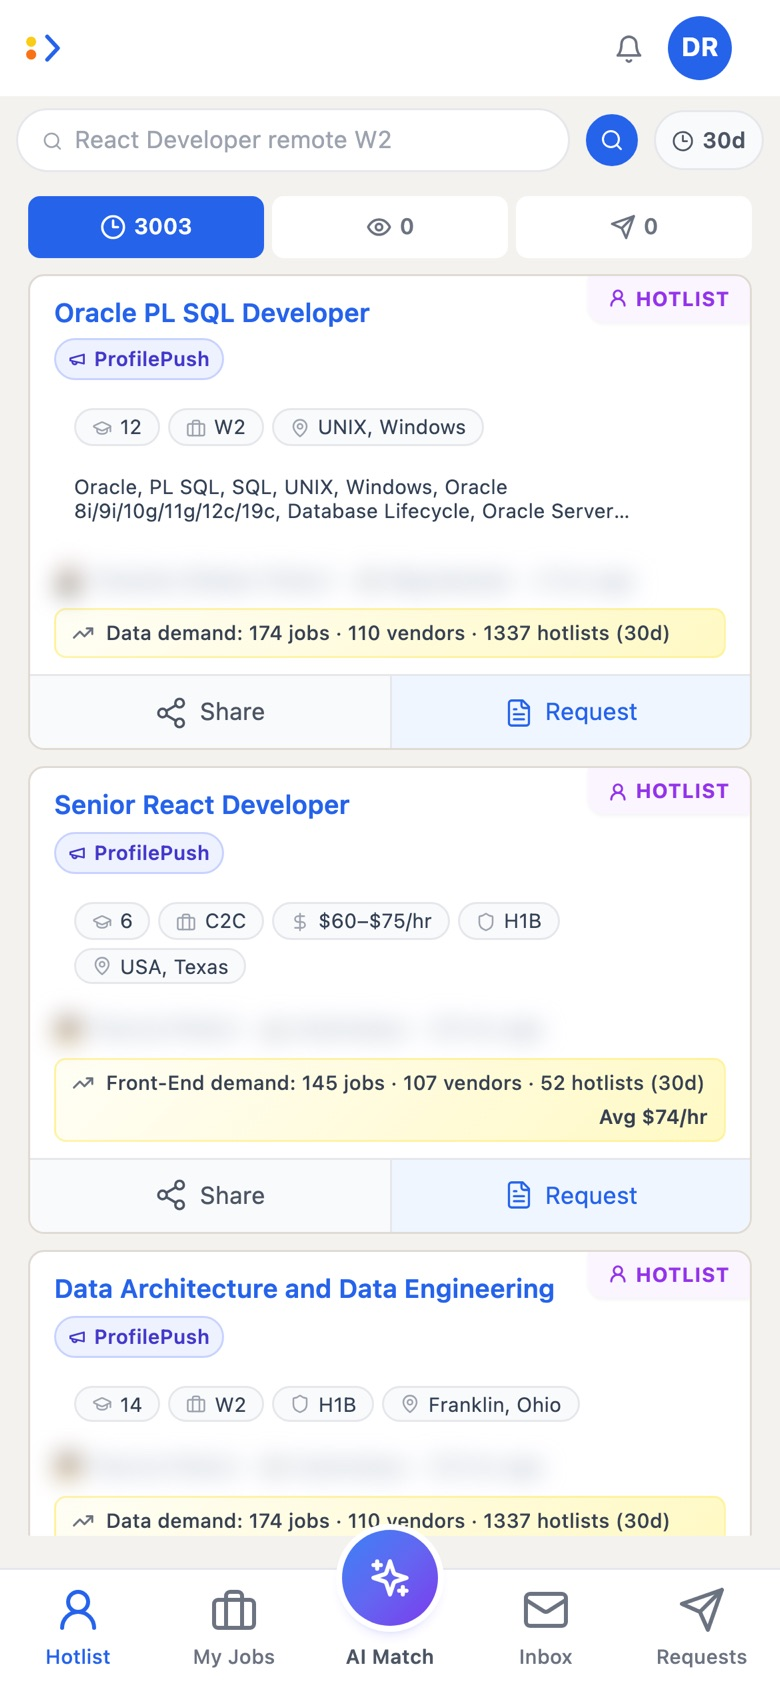
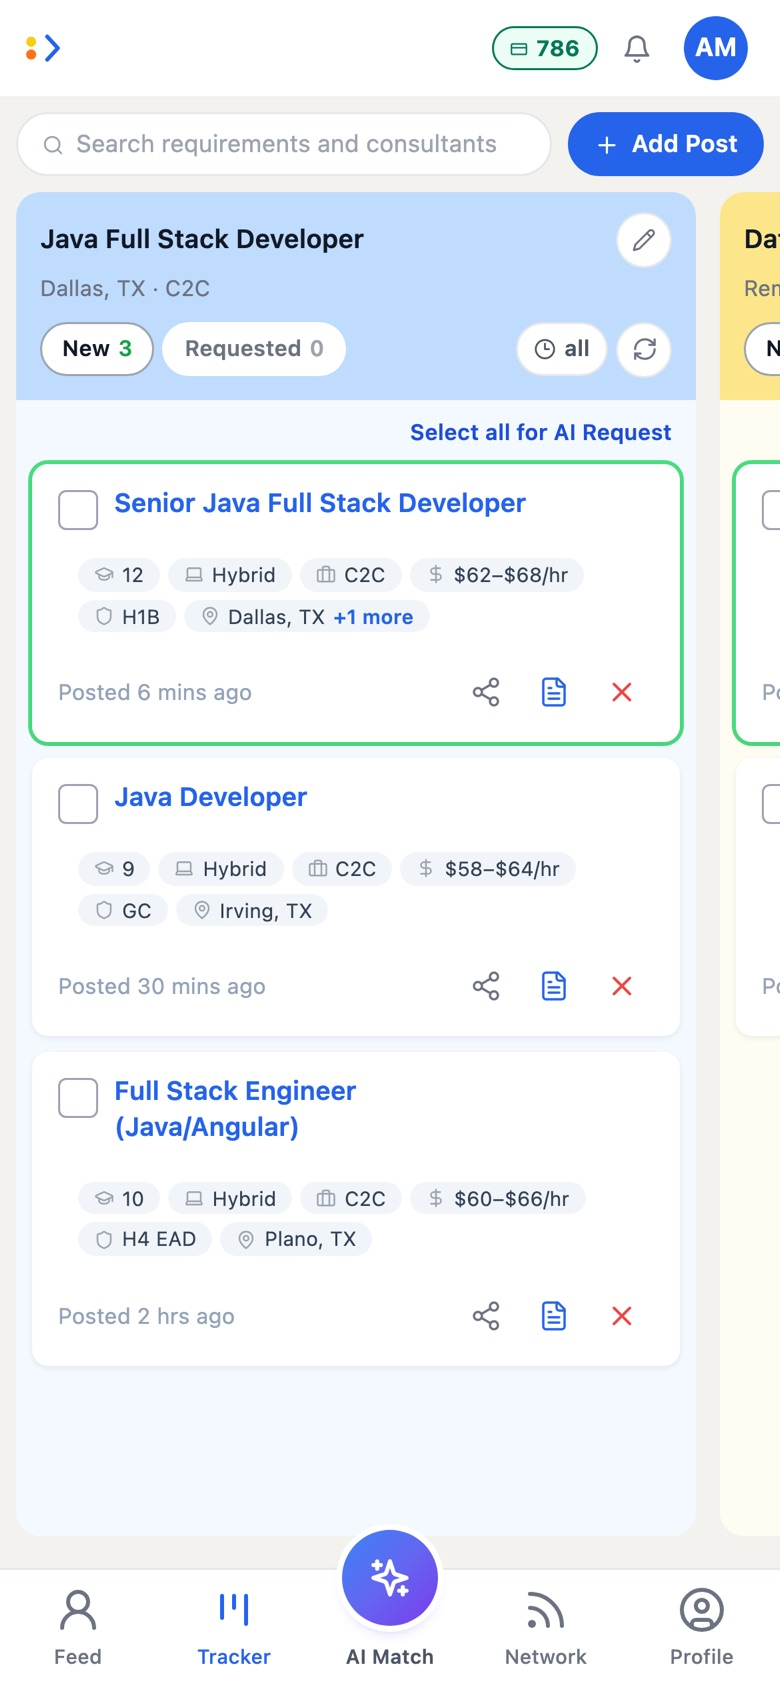
AI Submit is always the email; persona landing pages use the new screenshots (incl. Tracker)

diff --git a/src/components/LeadCard.tsx b/src/components/LeadCard.tsx
@@ -431,7 +431,8 @@ export interface LeadCardProps {
   isProcessingAskAI: boolean;
   onPreview: (lead: SocialLead) => void;
   onAskAI: (lead: SocialLead) => void;
-  onApply: (lead: SocialLead) => void;
+  /** No longer used by the card (AI Submit is always the email); kept for callers. */
+  onApply?: (lead: SocialLead) => void;
   onToggleInlineBreakdown: (leadId: string) => void;
   onExpandSkills: (leadId: string) => void;
   onCollapseSkills: (leadId: string) => void;
@@ -475,7 +476,7 @@ export const LeadCard = memo(function LeadCard({
   predictResult, askedRequestedAt, askedFulfilledAt, revealedAt, isViewed = false, viewedAt, isSkillsExpanded,
   isExpFieldExpanded, isWorkTypeFieldExpanded, isEmpTypeFieldExpanded, isRateFieldExpanded, isVisaFieldExpanded, isLocationFieldExpanded,
   isLoadingPreview, isProcessingAskAI,
-  onPreview, onAskAI, onApply, onToggleInlineBreakdown, onExpandSkills, onCollapseSkills, onToggleField,
+  onPreview, onAskAI, onToggleInlineBreakdown, onExpandSkills, onCollapseSkills, onToggleField,
   hideActions, isSelected, onSelect,
   bulkSelectable, isBulkSelected, onToggleBulkSelect, matchRank, isFocused, onFocus,
   onChat, isProcessingChat, collapsible = false, defaultCollapsed = true, onDismiss,
@@ -527,17 +528,10 @@ export const LeadCard = memo(function LeadCard({
           {!compact && <span className="text-[12px] font-normal">Chat</span>}
         </button>
       )}
-      {lead.kind === 'job' && lead.postSource === 'user_post' ? (
-        <button
-          type="button"
-          onClick={(e) => { e.stopPropagation(); onApply(lead); }}
-          title="Submit a consultant to this job"
-          className="inline-flex h-9 flex-1 items-center justify-center gap-1.5 bg-blue-50 text-blue-600 transition-colors hover:bg-blue-100 dark:bg-blue-500/10 dark:text-blue-400 dark:hover:bg-blue-500/20"
-        >
-          <Mail size={15} strokeWidth={1.75} />
-          {!compact && <span className="text-[12px] font-normal">AI Submit</span>}
-        </button>
-      ) : isAskPending || isVerified ? (
+      {/* AI Submit is always the email (with the resume when attached), for
+          jobs posted on ProfilePush too; the old application form is no
+          longer offered from the card. */}
+      {isAskPending || isVerified ? (
         <span
           title={isVerified ? 'Verified' : (isHotlistFeed ? 'Requested' : 'Submitted')}
           className={`inline-flex h-9 flex-1 items-center justify-center ${isVerified ? 'bg-emerald-50 text-emerald-600 dark:bg-emerald-500/10 dark:text-emerald-400' : 'bg-blue-50 text-blue-600 dark:bg-blue-500/10 dark:text-blue-400'}`}
@@ -549,21 +543,15 @@ export const LeadCard = memo(function LeadCard({
           type="button"
           onClick={(e) => { e.stopPropagation(); onAskAI(lead); }}
           disabled={!canAskAI || isProcessingAskAI}
-          title={!lead.posterEmail ? 'No email' : (isHotlistFeed ? 'AI Request: ask for resume, rate and availability' : lead.postSource === 'user_post' ? 'Request' : 'AI Submit')}
+          title={!lead.posterEmail ? 'No email' : (isHotlistFeed ? 'AI Request: ask for resume, rate and availability' : 'AI Submit')}
           className="inline-flex h-9 flex-1 items-center justify-center gap-1.5 bg-blue-50 text-blue-600 transition-colors hover:bg-blue-100 disabled:cursor-not-allowed disabled:opacity-40 dark:bg-blue-500/10 dark:text-blue-400 dark:hover:bg-blue-500/20"
         >
-          {isProcessingAskAI ? <LogoSpinner size={14} /> : lead.postSource === 'user_post' ? (
-            <>
-              {/* Same action either way: a consultant gets a resume request
-                  whether the post came from the platform or elsewhere. */}
-              <FileText size={15} strokeWidth={1.75} />
-              {!compact && <span className="text-[12px] font-normal">{isHotlistFeed ? 'AI Request' : 'Request'}</span>}
-            </>
-          ) : (
+          {isProcessingAskAI ? <LogoSpinner size={14} /> : (
             <>
               {/* A consultant gets a resume request (document icon; the video
                   screening is an optional add-on in the draft); a job gets
-                  the email icon, since AI Submit emails the recruiter. */}
+                  AI Submit, the email to its recruiter (mail icon), wherever
+                  the job was posted. */}
               {isHotlistFeed ? <FileText size={15} strokeWidth={1.75} /> : <Mail size={15} strokeWidth={1.75} />}
               {!compact && <span className="text-[12px] font-normal">{isHotlistFeed ? 'AI Request' : 'AI Submit'}</span>}
             </>
@@ -598,11 +586,7 @@ export const LeadCard = memo(function LeadCard({
       >
         {justCopiedShare ? <Check size={16} strokeWidth={1.75} /> : <Share2 size={16} strokeWidth={1.75} />}
       </button>
-      {lead.kind === 'job' && lead.postSource === 'user_post' ? (
-        <button type="button" onClick={(e) => { e.stopPropagation(); onApply(lead); }} title="Submit a consultant to this job" aria-label="AI Submit" className={`${iconButtonClass} text-blue-600 hover:bg-blue-50 dark:text-blue-400 dark:hover:bg-blue-500/10`}>
-          <Mail size={16} strokeWidth={1.75} />
-        </button>
-      ) : isAskPending || isVerified ? (
+      {isAskPending || isVerified ? (
         <span title={isVerified ? 'Verified' : (isHotlistFeed ? 'Requested' : 'Submitted')} className={`${iconButtonClass} ${isVerified ? 'text-emerald-600 dark:text-emerald-400' : 'text-blue-600 dark:text-blue-400'}`}>
           {isVerified ? <BadgeCheck size={16} strokeWidth={1.75} /> : <Check size={16} strokeWidth={1.75} />}
         </span>

diff --git a/src/pages/PersonaLandingTemplate.tsx b/src/pages/PersonaLandingTemplate.tsx
@@ -317,6 +317,7 @@ export default function PersonaLandingTemplate({ persona }: { persona: Persona }
     inbox: { desktop: '/screens/features/inbox.jpg', mobile: '/screens/features/inbox-mobile.jpg' },
     pulse: { desktop: '/screens/features/pulse.jpg', mobile: '/screens/features/pulse-mobile.jpg' },
     posts: { desktop: '/screens/features/posts.jpg', mobile: '/screens/features/posts-mobile.jpg' },
+    tracker: { desktop: '/screens/features/tracker.jpg', mobile: '/screens/features/tracker-mobile.jpg' },
   };
 
   const storageBaseUrl = `${import.meta.env.VITE_SUPABASE_URL}/storage/v1/object/public/landing-assets/features`;
